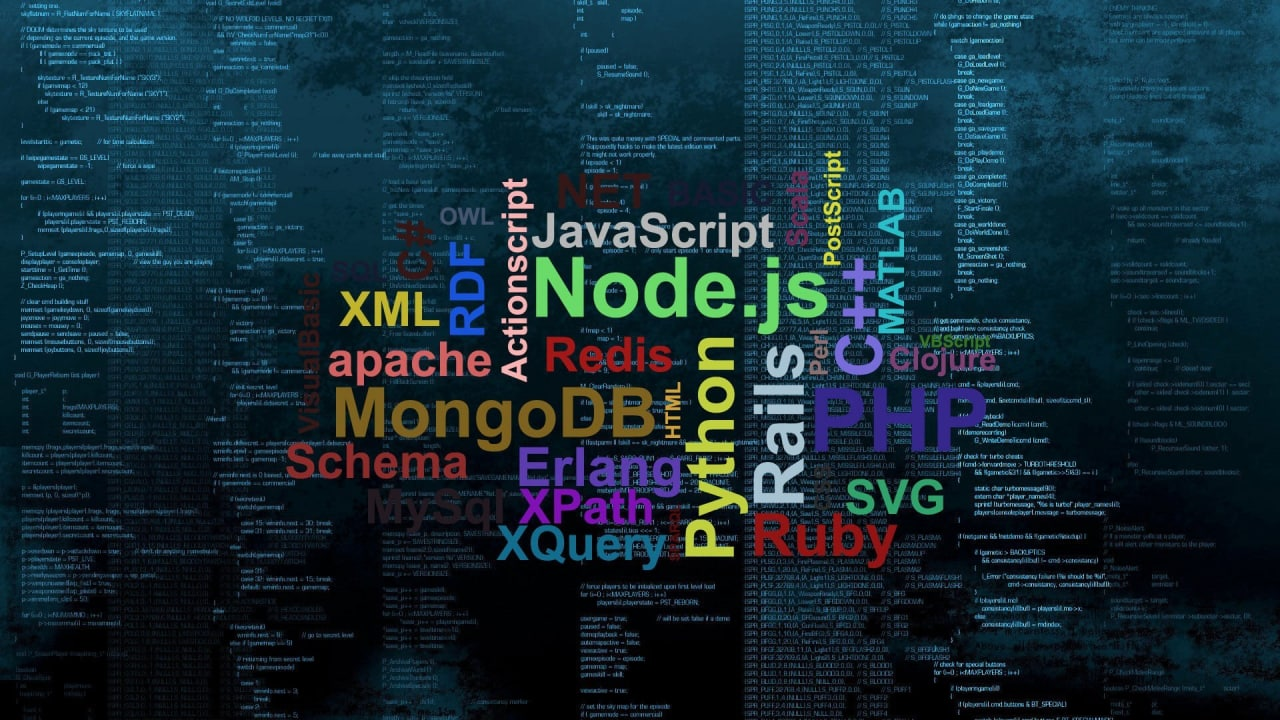
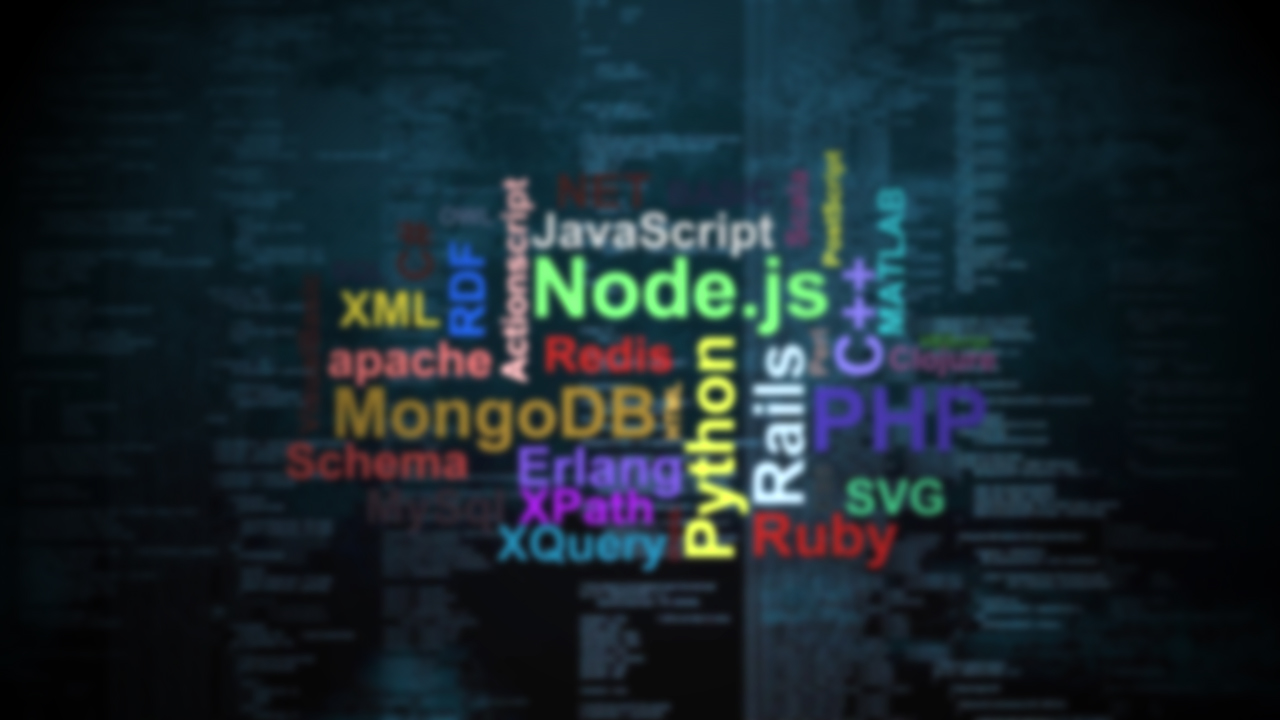
увув

diff --git a/index.html b/index.html
@@ -146,17 +146,10 @@
 
     <section class="portfolio" id="portfolio">
 
-      <div class="portfolio-bg">
-      </div>
-
       <div class="portfolio-container container">
 
 
         <h2 class="portfolio__title">Портфолио</h2>
-
-        <div class="test__picture">
-          <img class="test__image" src="assets/img/1.jpg" alt="">
-        </div>
 
 
         <!-- <div class="portfolio-bootstrap">
@@ -170,24 +163,24 @@
                 aria-label="Slide 3"></button>
             </div>
             <div class="carousel-inner">
-              <div class="carousel-item active test__picture"  data-bs-interval="5000">
-                <img src="assets/img/1.jpg" class="portfolio-bootstrap__image test__image" alt="...">
+              <div class="carousel-item active portfolio-bootstrap__picture"  data-bs-interval="5000">
+                <img src="assets/img/1.jpg" class="portfolio-bootstrap__image" alt="...">
                 <div class="carousel-caption d-none d-md-block">
                   <h5>First slide label</h5>
                   <p>Some representative placeholder content for the first slide.</p>
                 </div>
               </div>
 
-              <div class="carousel-item test__picture" data-bs-interval="5000">
-                <img src="assets/img/2.jpg" class="portfolio-bootstrap__image test__image" alt="...">
+              <div class="carousel-item portfolio-bootstrap__picture" data-bs-interval="5000">
+                <img src="assets/img/2.jpg" class="portfolio-bootstrap__image" alt="...">
                 <div class="carousel-caption d-none d-md-block">
                   <h5>First slide label</h5>
                   <p>Some representative placeholder content for the first slide.</p>
                 </div>
               </div>
 
-              <div class="carousel-item test__picture" data-bs-interval="5000">
-                <img src="assets/img/3.jpg" class="portfolio-bootstrap__image test__image" alt="...">
+              <div class="carousel-item portfolio-bootstrap__picture" data-bs-interval="5000">
+                <img src="assets/img/3.jpg" class="portfolio-bootstrap__image" alt="...">
                 <div class="carousel-caption d-none d-md-block">
                   <h5>First slide label</h5>
                   <p>Some representative placeholder content for the first slide.</p>
@@ -207,6 +200,48 @@
             </button>
           </div>
         </div> -->
+
+        <div class="test">
+          <div id="carouselExampleDark" class="carousel carousel-dark slide" data-bs-ride="carousel">
+            <div class="carousel-indicators">
+              <button type="button" data-bs-target="#carouselExampleDark" data-bs-slide-to="0" class="active" aria-current="true"
+                aria-label="Slide 1"></button>
+              <button type="button" data-bs-target="#carouselExampleDark" data-bs-slide-to="1" aria-label="Slide 2"></button>
+              <button type="button" data-bs-target="#carouselExampleDark" data-bs-slide-to="2" aria-label="Slide 3"></button>
+            </div>
+            <div class="carousel-inner">
+              <div class="carousel-item active" data-bs-interval="3000">
+                <img src="assets/img/1.png" class="d-block w-100" alt="...">
+                <div class="carousel-caption d-none d-md-block">
+                  <h5>First slide label</h5>
+                  <p>Some representative placeholder content for the first slide.</p>
+                </div>
+              </div>
+              <div class="carousel-item" data-bs-interval="3000">
+                <img src="assets/img/1.png" class="d-block w-100" alt="...">
+                <div class="carousel-caption d-none d-md-block">
+                  <h5>Second slide label</h5>
+                  <p>Some representative placeholder content for the second slide.</p>
+                </div>
+              </div>
+              <div class="carousel-item" data-bs-interval="3000">
+                <img src="assets/img/1.png" class="d-block w-100" alt="...">
+                <div class="carousel-caption d-none d-md-block">
+                  <h5>Third slide label</h5>
+                  <p>Some representative placeholder content for the third slide.</p>
+                </div>
+              </div>
+            </div>
+            <button class="carousel-control-prev" type="button" data-bs-target="#carouselExampleDark" data-bs-slide="prev">
+              <span class="carousel-control-prev-icon" aria-hidden="true"></span>
+              <span class="visually-hidden">Previous</span>
+            </button>
+            <button class="carousel-control-next" type="button" data-bs-target="#carouselExampleDark" data-bs-slide="next">
+              <span class="carousel-control-next-icon" aria-hidden="true"></span>
+              <span class="visually-hidden">Next</span>
+            </button>
+          </div>
+        </div>
       </div>
 
 
@@ -214,7 +249,7 @@
 
   </main>
 
-  <!-- <script src="https://cdn.jsdelivr.net/npm/bootstrap@5.2.1/dist/js/bootstrap.bundle.min.js"></script> -->
+  <script src="https://cdn.jsdelivr.net/npm/bootstrap@5.2.1/dist/js/bootstrap.bundle.min.js"></script>
 
 </body>
 

diff --git a/assets/css/style.css b/assets/css/style.css
@@ -515,6 +515,7 @@ ul
 
     background-color: #dc365d;
     background-image: url(../img/services-bg.jpg);
+    background-position: center;
     background-size: cover;
 
     -webkit-box-align: center;
@@ -531,8 +532,7 @@ ul
     position: relative;
 
     margin: 0;
-    margin-top: 50px;
-    margin-bottom: 30px;
+    margin-bottom: 50px;
 
     text-align: center;
 }
@@ -696,22 +696,24 @@ ul
 
 .portfolio
 {
+    display: -webkit-box;
+    display: -ms-flexbox;
+    display: flex;
+
     min-height: 100vh;
     padding-bottom: 20px;
-}
-.portfolio-bg
-{
-    position: absolute;
-    z-index: -2;
-
-    width: 100vw;
-    min-height: 100vh;
 
     background-image: url(../img/IMAGE\ 2022-10-26\ 13:55:28.jpg);
+    background-position: center;
     background-size: cover;
 
-    -webkit-filter: brightness(40%) blur(3px);
-            filter: brightness(40%) blur(3px);
+    -webkit-box-align: center;
+    -ms-flex-align: center;
+    align-items: center;
+}
+.portfolio-container
+{
+    max-width: 80vw;
 }
 .portfolio__title
 {
@@ -722,7 +724,7 @@ ul
 
     position: relative;
 
-    margin-bottom: 10px;
+    margin-bottom: 50px;
     padding-top: 30px;
 
     text-align: center;
@@ -745,35 +747,4 @@ ul
             transform: translateX(-50%);
 
     background-color: #dc365d;
-}
-.portfolio-bootstrap__image
-{
-    display: block;
-
-    width: auto;
-    height: 80vh;
-    margin-right: auto;
-    margin-left: auto;
-
-    border-radius: 20px;
-}
-
-.test__picture
-{
-    display: -webkit-box;
-    display: -ms-flexbox;
-    display: flex;
-
-    -webkit-box-pack: center;
-    -ms-flex-pack: center;
-    justify-content: center;
-    -ms-flex-line-pack: center;
-    align-content: center;
-}
-
-.test__image
-{
-    width: 80%;
-
-    border-radius: 20px;
 }

diff --git a/assets/scss/sections/main/_portfolio.scss b/assets/scss/sections/main/_portfolio.scss
@@ -2,22 +2,18 @@
 @use "../../mixins" as *;
 
 .portfolio {
-
+    background-image: url(../img/IMAGE\ 2022-10-26\ 13:55:28.jpg);
     min-height: 100vh;
     padding-bottom: 20px;
-    // position: relative;
+    background-size: cover;
+    display: flex;
+    align-items: center;
+    background-position: center;
 
-    &-bg {
-        // background-image: url(../img/istockphoto-1334459498-640_adpp_is.gif);
-        background-image: url(../img/IMAGE\ 2022-10-26\ 13:55:28.jpg);
-        min-height: 100vh;
-        width: 100vw;
-        background-size: cover;
-        position: absolute;
-        z-index: -2;
-        filter: brightness(40%) blur(3px);
 
-    }
+&-container {
+    max-width: 80vw;
+}
 
     &__title {
         position: relative;
@@ -28,9 +24,9 @@
         text-align: center;
 
         padding-top: 30px;
-        margin-bottom: 10px;
+        margin-bottom: 50px;
         color: white;
-        //border-bottom: 3px solid red;
+      
         opacity: 0.5;
 
         &::after {
@@ -45,27 +41,22 @@
         }
     }
 
+
     &-bootstrap {}
 }
 
 .portfolio-bootstrap__image {
-    width: auto;
-    height: 80vh;
-    border-radius: 20px;
-    display: block;
-    margin-left: auto;
-    margin-right: auto;
 
 }
 
-.test__picture {
-        display: flex;
-        justify-content: center;
-        align-content: center;
+.portfolio-bootstrap__picture {
+
 }
 
-.test__image {
-  border-radius: 20px;
-        width: 80%;
-       
+.carousel-inner {
+   
 }
+.carousel-item {
+
+} 
+

diff --git a/assets/scss/sections/main/_services.scss b/assets/scss/sections/main/_services.scss
@@ -11,30 +11,31 @@
     background-size: cover;
     display: flex;
     align-items: center;
+    background-position: center;
 
     &-container {}
 
     &__title {
         position: relative;
         margin: 0;
-        margin-top: 50px;
-        margin-bottom: 30px;
+        margin-bottom: 50px;
         font-style: normal;
         font-weight: 700;
         font-size: 50px;
         line-height: 140%;
         text-align: center;
+
         &::after {
-                content: "";
-                height: 5px;
-                width: 312px;
-                background-color: #dc365d;
-                position: absolute;
-                bottom: -2px;
-                left: 50%;
-                transform: translateX(-50%);
-            }
-       
+            content: "";
+            height: 5px;
+            width: 312px;
+            background-color: #dc365d;
+            position: absolute;
+            bottom: -2px;
+            left: 50%;
+            transform: translateX(-50%);
+        }
+
     }
 
     &-box {
@@ -85,7 +86,7 @@
 
     &-window {
         position: relative;
-      
+
 
         &__item {
             //   min-height: 280px;
